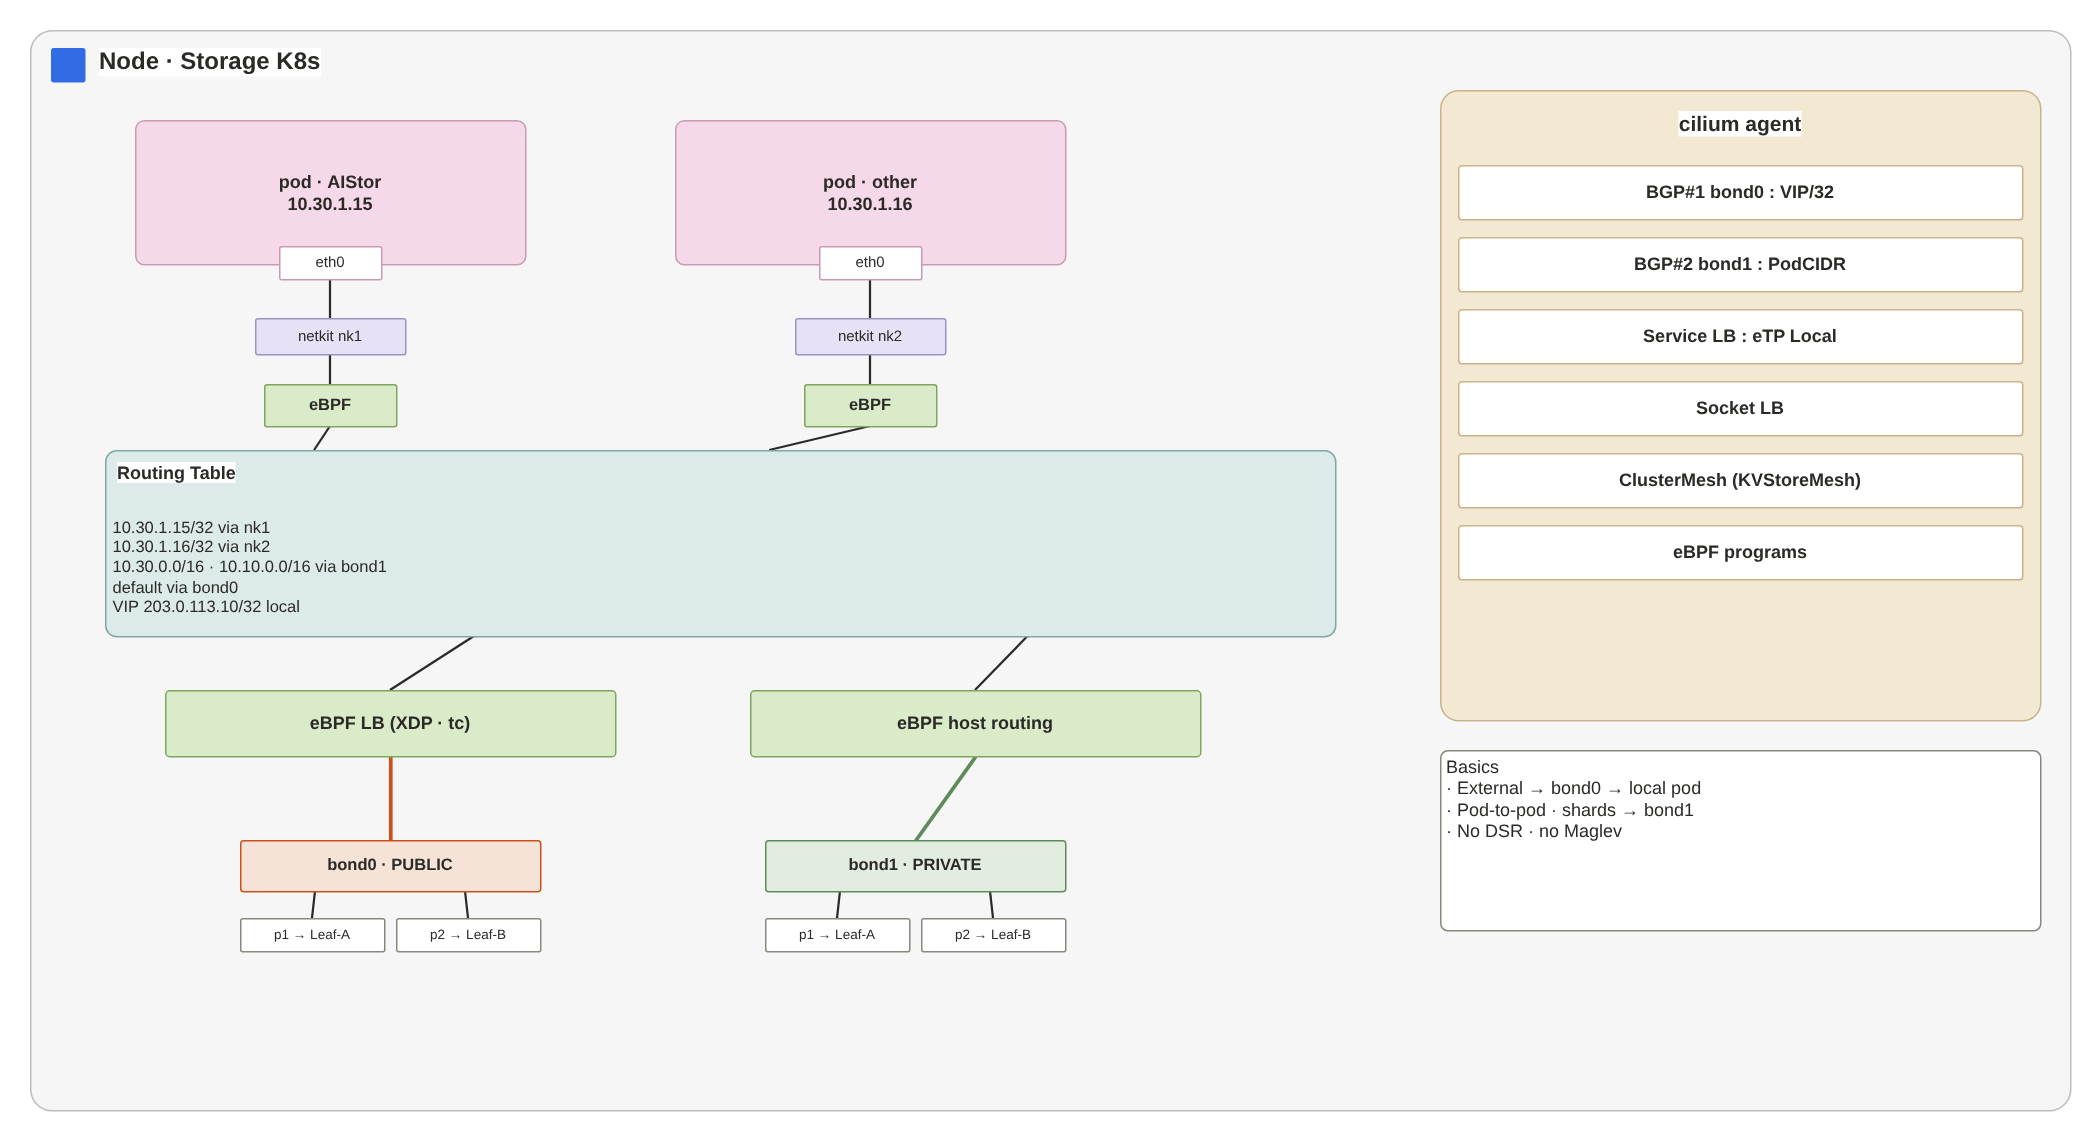
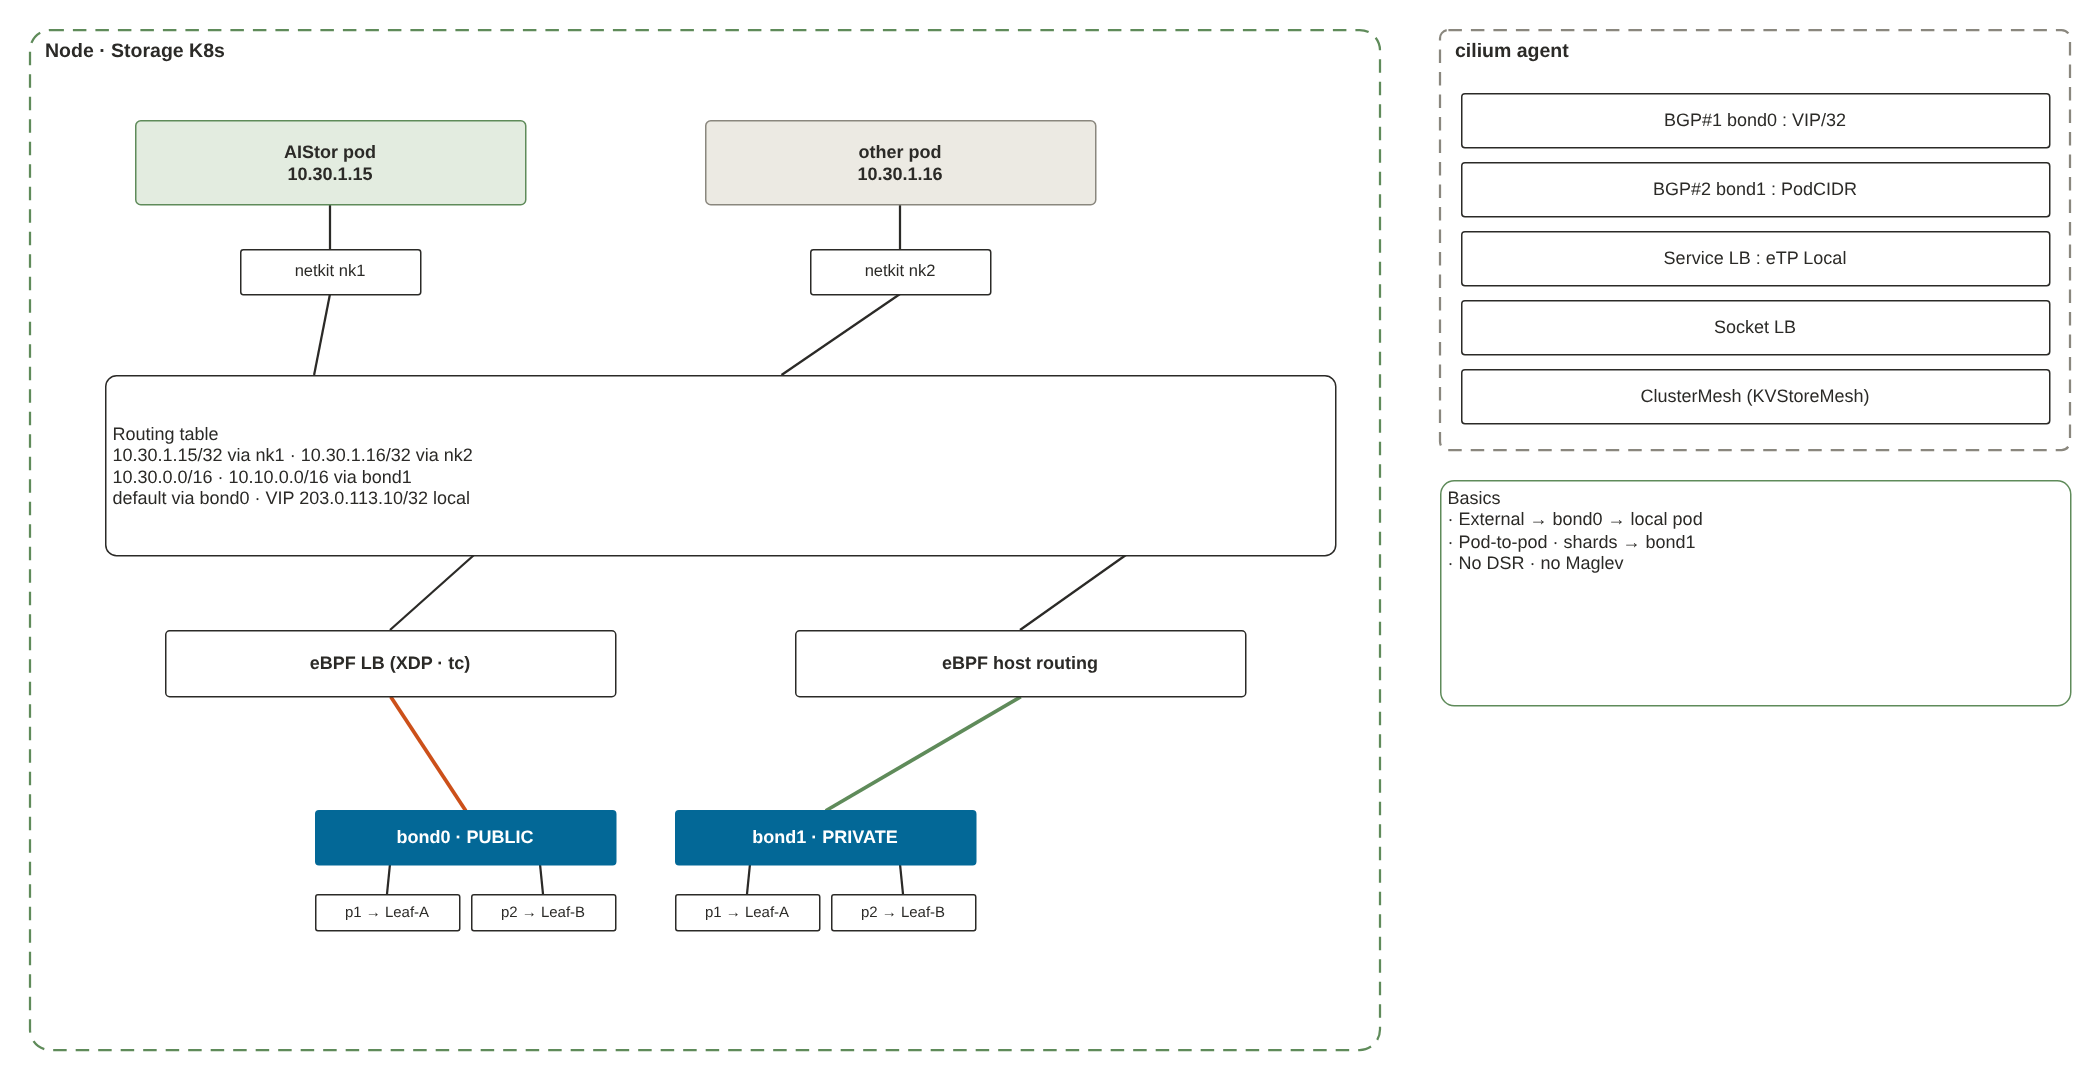
architecture/y1-nw-review: C-1..C-3 in the N-0 visual style
- Node diagrams redrawn with the N-0 vocabulary: dashed zones, green/gray
  pod cells, blue bond cells, white datapath boxes, one Basics box
- English labels only

Claude-Session: https://claude.ai/code/session_013oQJrWSprMAiQA3QJ4ffbY

Changed region(s): [[0.031, 0.0917, 0.65, 0.8556], [0.681, 0.0306, 0.9905, 0.7333], [0.0, 0.0306, 0.1548, 0.0917]]

diff --git a/architecture/y1-nw-review/tools/ciliumstyle.py b/architecture/y1-nw-review/tools/ciliumstyle.py
@@ -72,76 +72,115 @@ def bonds(g, x, y, gap=40):
     return b0, b1
 
 
+# ---------------------------------------------------------------- N-0 양식 부품
+BLUE, ST_F, CP_F = "#036897", "#E3ECE0", "#ECEAE3"
+
+
+def cell(g, x, y, w, h, t, kind="white", size=12, bold=True, align="center"):
+    fill, stroke, fc = {"st": (ST_F, PRIV, INK), "cp": (CP_F, MUTE, INK), "blue": (BLUE, BLUE, "#FFFFFF"),
+                        "white": ("#FFFFFF", INK, INK), "rule": ("#FFFFFF", PRIV, INK)}[kind]
+    b = g.box(x, y, w, h, t, fill=fill, stroke=stroke, size=size, align=align, bold=bold)
+    if fc != INK:
+        g.cells[-1] = g.cells[-1].replace(f"fontColor={INK}", f"fontColor={fc}")
+    return b
+
+
+def pod2(g, x, y, w, name, ip, kind, iface):
+    p = cell(g, x, y, w, 56, f"{name}\n{ip}", kind)
+    n = cell(g, x + w / 2 - 60, y + 86, 120, 30, iface, "white", size=11, bold=False)
+    g.line(bot(p), top(n), "phys")
+    return p, n
+
+
+def bond2(g, x, y):
+    b0 = cell(g, x, y, 200, 36, "bond0 · PUBLIC", "blue")
+    b1 = cell(g, x + 240, y, 200, 36, "bond1 · PRIVATE", "blue")
+    for b in (b0, b1):
+        for i, nm in enumerate(("p1 → Leaf-A", "p2 → Leaf-B")):
+            m = cell(g, b["x"] + i * 104, y + 56, 96, 24, nm, "white", size=10, bold=False)
+            g.line(at(b, 0.25 + 0.5 * i, 1), top(m), "phys")
+    return b0, b1
+
+
+def agent2(g, x, y, w, items):
+    h = 50 + len(items) * 46
+    g.zone(x, y, w, h, "cilium agent")
+    for i, t in enumerate(items):
+        cell(g, x + 14, y + 42 + i * 46, w - 28, 36, t, "white", size=12, bold=False)
+    return h
+
+
+def basics(g, x, y, w, h, lines):
+    b = cell(g, x, y, w, h, "Basics\n" + "\n".join("· " + l for l in lines), "rule", size=12, bold=False, align="left")
+    g.cells[-1] = g.cells[-1].replace("verticalAlign=middle", "verticalAlign=top")
+    return b
+
+
 # ================================================================ C-1 Storage 노드 내부
 def c1():
-    g = Diagram("C-1 Storage node internals", 1400, 760)
-    node(g, 20, 20, 1360, 720, "Node · Storage K8s")
-    p1, e1 = pod(g, 90, 80, 260, "AIStor", "10.30.1.15", "netkit nk1")
-    p2, e2 = pod(g, 450, 80, 260, "other", "10.30.1.16", "netkit nk2")
-    rt = rtable(g, 70, 300, 820, [
-        "10.30.1.15/32  via nk1",
-        "10.30.1.16/32  via nk2",
-        "10.30.0.0/16 · 10.10.0.0/16  via bond1",
-        "default  via bond0",
-        "VIP 203.0.113.10/32  local"])
-    g.line(bot(e1), at(rt, 0.17, 0), "phys")
-    g.line(bot(e2), at(rt, 0.54, 0), "phys")
-    lb = g.box(110, 460, 300, 44, "eBPF LB (XDP · tc)", fill=BPF_F, stroke=BPF_S, size=12, align="center", bold=True)
-    hr = g.box(500, 460, 300, 44, "eBPF host routing", fill=BPF_F, stroke=BPF_S, size=12, align="center", bold=True)
+    g = Diagram("C-1 Storage node internals", 1400, 720)
+    g.zone(20, 20, 900, 680, "Node · Storage K8s", color=PRIV)
+    p1, n1 = pod2(g, 90, 80, 260, "AIStor pod", "10.30.1.15", "st", "netkit nk1")
+    p2, n2 = pod2(g, 470, 80, 260, "other pod", "10.30.1.16", "cp", "netkit nk2")
+    rt = cell(g, 70, 250, 820, 120, "Routing table\n10.30.1.15/32 via nk1 · 10.30.1.16/32 via nk2\n10.30.0.0/16 · 10.10.0.0/16 via bond1\ndefault via bond0 · VIP 203.0.113.10/32 local", "white", size=12, bold=False, align="left")
+    g.line(bot(n1), at(rt, 0.17, 0), "phys")
+    g.line(bot(n2), at(rt, 0.55, 0), "phys")
+    lb = cell(g, 110, 420, 300, 44, "eBPF LB (XDP · tc)", "white")
+    hr = cell(g, 530, 420, 300, 44, "eBPF host routing", "white")
     g.line(at(rt, 0.3, 1), top(lb), "phys")
-    g.line(at(rt, 0.75, 1), top(hr), "phys")
-    b0, b1 = bonds(g, 160, 560, gap=150)
+    g.line(at(rt, 0.83, 1), top(hr), "phys")
+    b0, b1 = bond2(g, 210, 540)
     g.line(bot(lb), top(b0), "pub")
     g.line(bot(hr), top(b1), "priv")
-    agent(g, 960, 60, 400, 420, ["BGP#1 bond0 : VIP/32", "BGP#2 bond1 : PodCIDR", "Service LB : eTP Local", "Socket LB", "ClusterMesh (KVStoreMesh)", "eBPF programs"])
-    g.text(960, 500, 400, 120, "Basics\n· External → bond0 → local pod\n· Pod-to-pod · shards → bond1\n· No DSR · no Maglev", size=12, box=True)
+    h = agent2(g, 960, 20, 420, ["BGP#1 bond0 : VIP/32", "BGP#2 bond1 : PodCIDR", "Service LB : eTP Local", "Socket LB", "ClusterMesh (KVStoreMesh)"])
+    basics(g, 960, 40 + h, 420, 150, ["External → bond0 → local pod", "Pod-to-pod · shards → bond1", "No DSR · no Maglev"])
     return g
 
 
 # ================================================================ C-2 외부 요청 처리
 def c2():
-    g = Diagram("C-2 External request (eTP Local)", 1400, 700)
-    node(g, 20, 20, 1360, 660, "Node · Storage K8s")
-    p1, e1 = pod(g, 260, 80, 300, "AIStor", "10.30.1.15", "netkit nk1")
-    lb = g.box(160, 320, 500, 54, "eBPF LB (XDP · tc)\nVIP → P-IP", fill=BPF_F, stroke=BPF_S, size=12, align="center", bold=True)
-    b0, b1 = bonds(g, 160, 540, gap=100)
+    g = Diagram("C-2 External request (eTP Local)", 1400, 640)
+    g.zone(20, 20, 900, 600, "Node · Storage K8s", color=PRIV)
+    p1, n1 = pod2(g, 270, 70, 300, "AIStor pod", "10.30.1.15", "st", "netkit nk1")
+    lb = cell(g, 170, 290, 500, 54, "eBPF LB (XDP · tc)\nVIP → P-IP (local only)", "white")
+    b0, b1 = bond2(g, 190, 470)
     g.line(top(b0), at(lb, 0.25, 1), "fpub", "①")
-    g.line(at(lb, 0.5, 0), bot(e1), "fpub", "②")
-    shard = g.box(700, 200, 200, 44, "other AIStor nodes", fill="#FFFFFF", stroke=PRIV, size=11, align="center")
-    g.line(right(p1, 0.6), left(shard), "priv", "③")
-    g.line(bot(shard), top(b1), "priv")
+    g.line(at(lb, 0.5, 0), bot(n1), "fpub", "②")
+    sh = cell(g, 690, 150, 200, 44, "other AIStor nodes", "st", size=11, bold=False)
+    g.line(right(p1, 0.5), left(sh), "priv", "③")
+    g.line(bot(sh), top(b1), "priv")
     g.line(at(lb, 0.1, 1), at(b0, 0.1, 0), "fpub", "④")
-    agent(g, 960, 60, 400, 240, ["BGP#1 bond0 : VIP/32", "eTP Local"])
-    g.text(960, 330, 400, 170, "Basics\n① C-IP → VIP on bond0\n② VIP → local pod (no hop)\n③ shards via bond1\n④ reply src VIP · client IP kept", size=12, box=True)
+    h = agent2(g, 960, 20, 420, ["BGP#1 bond0 : VIP/32", "eTP Local"])
+    basics(g, 960, 40 + h, 420, 170, ["① C-IP → VIP on bond0", "② VIP → local pod (no extra hop)", "③ shards via bond1", "④ reply src VIP · client IP kept"])
     return g
 
 
 # ================================================================ C-3 내부 client → AIStor
 def c3():
-    g = Diagram("C-3 Internal client → AIStor", 1640, 900)
-    cm = g.box(670, 20, 300, 50, "ClusterMesh", fill=AG_F, stroke=KEY, size=12, align="center", bold=True)
-    node(g, 20, 100, 640, 720, "Node · Compute K8s")
-    pc, ec = pod(g, 180, 160, 300, "ETL client", "10.10.4.21", "netkit")
-    sl = g.box(160, 390, 340, 44, "eBPF socket LB", fill=BPF_F, stroke=BPF_S, size=12, align="center", bold=True)
-    rt = rtable(g, 80, 470, 500, ["10.10.4.21/32  via netkit", "10.30.0.0/16  via bond1", "default  via bond0"])
-    b1c = g.box(230, 680, 200, 34, "bond1 · PRIVATE", fill=B1_F, stroke=PRIV, size=11, align="center", bold=True)
-    g.line(bot(ec), top(sl), "fpriv", "Ⓐ")
+    g = Diagram("C-3 Internal client → AIStor", 1640, 820)
+    cm = cell(g, 670, 20, 300, 44, "ClusterMesh", "white")
+    g.zone(20, 90, 640, 640, "Node · Compute K8s")
+    pc, nc = pod2(g, 180, 140, 300, "ETL client pod", "10.10.4.21", "cp", "netkit")
+    sl = cell(g, 160, 330, 340, 44, "eBPF socket LB", "white")
+    rt = cell(g, 80, 420, 500, 84, "Routing table\n10.30.0.0/16 via bond1 · default via bond0", "white", size=12, bold=False, align="left")
+    b1c = cell(g, 230, 600, 200, 36, "bond1 · PRIVATE", "blue")
+    g.line(bot(nc), top(sl), "fpriv", "Ⓐ")
     g.line(bot(sl), top(rt), "fpriv", "Ⓑ")
     g.line(bot(rt), top(b1c), "fpriv", "Ⓒ")
-    fab = g.box(690, 650, 260, 70, "Fabric\nVRF PRIVATE", fill="#FFFFFF", stroke=MUTE, size=12, align="center", bold=True)
-    node(g, 980, 100, 640, 720, "Node · Storage K8s")
-    b1s = g.box(1200, 680, 200, 34, "bond1 · PRIVATE", fill=B1_F, stroke=PRIV, size=11, align="center", bold=True)
-    rs = rtable(g, 1040, 470, 520, ["10.30.1.15/32  via nk1", "10.10.0.0/16  via bond1", "default  via bond0"])
-    hr = g.box(1130, 390, 340, 44, "eBPF host routing", fill=BPF_F, stroke=BPF_S, size=12, align="center", bold=True)
-    ps, es = pod(g, 1150, 160, 300, "AIStor", "10.30.1.15", "netkit nk1")
+    fab = cell(g, 690, 580, 260, 70, "Fabric\nVRF PRIVATE", "white")
+    g.zone(980, 90, 640, 640, "Node · Storage K8s", color=PRIV)
+    ps, ns = pod2(g, 1150, 140, 300, "AIStor pod", "10.30.1.15", "st", "netkit nk1")
+    hr = cell(g, 1130, 330, 340, 44, "eBPF host routing", "white")
+    rs = cell(g, 1040, 420, 520, 84, "Routing table\n10.10.0.0/16 via bond1 · default via bond0", "white", size=12, bold=False, align="left")
+    b1s = cell(g, 1200, 600, 200, 36, "bond1 · PRIVATE", "blue")
     g.line(right(b1c), left(fab, 0.6), "fpriv", "Ⓓ")
     g.line(right(fab, 0.6), left(b1s), "fpriv", "Ⓔ")
     g.line(top(b1s), bot(rs), "fpriv")
     g.line(top(rs), bot(hr), "fpriv")
-    g.line(top(hr), bot(es), "fpriv", "Ⓕ")
+    g.line(top(hr), bot(ns), "fpriv", "Ⓕ")
     g.line(at(cm, 0.2, 1), at(sl, 0.8, 0), "ctrl")
     g.line(at(cm, 0.8, 1), at(hr, 0.3, 0), "ctrl")
-    g.text(20, 836, 1600, 50, "Basics : connect(global svc) → socket LB picks an AIStor pod → Pod IP over bond1 · no NAT · reply same path", size=12, bold=True)
+    basics(g, 20, 744, 1600, 64, ["connect(global svc) → socket LB picks an AIStor pod → Pod IP over bond1 · no NAT · reply on the same path"])
     return g
 
 
